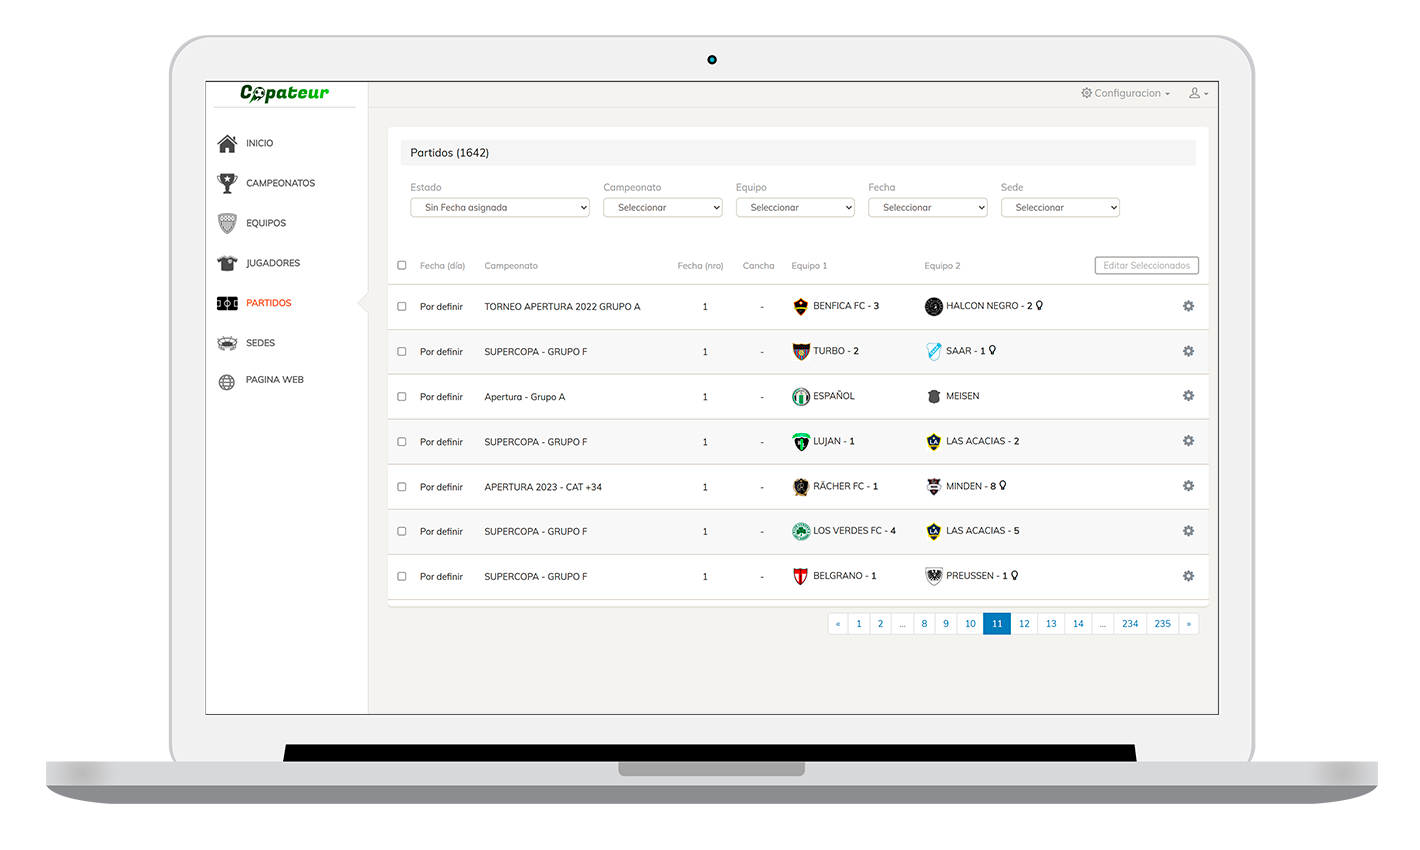
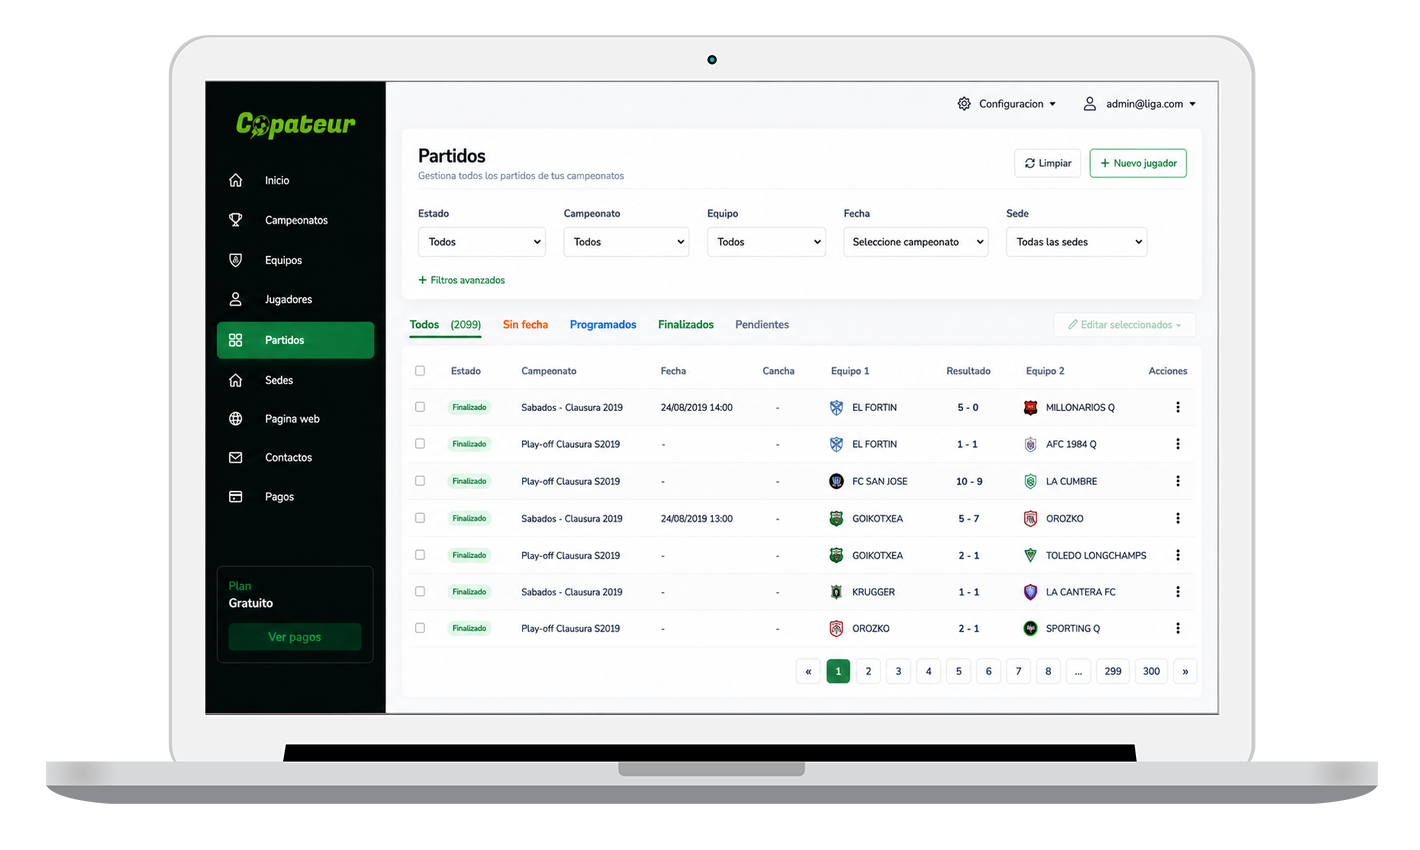
Actualizo tabla de precios e imagenes

diff --git a/index.html b/index.html
@@ -23,6 +23,23 @@
         <link href="assets/libs/@iconscout/unicons/css/line.css" type="text/css" rel="stylesheet">
         <!-- Style Css-->
         <link href="assets/css/style-dark-green.min.css" id="color-opt" class="theme-opt" rel="stylesheet" type="text/css">
+        <style>
+            .mobile-preview-section {
+                position: relative;
+                z-index: 2;
+                overflow: visible;
+            }
+
+            .mobile-preview-image {
+                position: relative;
+                z-index: 3;
+            }
+
+            .section-divider {
+                position: relative;
+                z-index: 1;
+            }
+        </style>
     </head>
 
     <body>
@@ -86,7 +103,7 @@
                         </div>
 
                         <div class="home-dashboard onepage-hero" style="overflow: unset;">
-                            <img src="assets/images/mockup-1.png" alt="" class="img-fluid rounded">
+                            <img src="assets/images/mockup-2.png" alt="" class="img-fluid rounded">
                         </div>
                     </div><!--end col-->
                 </div><!--end row-->
@@ -95,7 +112,7 @@
         <!-- Hero End -->
 
         <!-- Features Start -->
-        <section class="section pb-0" id="service">
+        <section class="section pb-0 mobile-preview-section" id="service">
             <div class="container">
                 <div class="row justify-content-center">
                     <div class="col-12 text-center">
@@ -190,7 +207,7 @@
             <div class="container mt-100 mt-60">
                 <div class="row align-items-center">
                     <div class="col-lg-5 col-md-6">
-                        <img src="assets/images/mockup-3.png" class="img-fluid" alt="">
+                        <img src="assets/images/mockup-3.png" class="img-fluid mobile-preview-image" alt="">
                     </div><!--end col-->
 
                     <div class="col-lg-7 col-md-6 mt-4 mt-sm-0 pt-2 pt-sm-0">
@@ -199,8 +216,8 @@
                             <p class="text-muted">Somos la mejor plataforma para organizadores y jugadores</p>
                             <ul class="list-unstyled mb-0 text-muted">
                                 <li class="mb-1"><span class="text-primary h5 me-2"><i class="uil uil-check-circle align-middle"></i></span>Fácil de usar, segura y flexible</li>
-                                <li class="mb-1"><span class="text-primary h5 me-2"><i class="uil uil-check-circle align-middle"></i></span>Compatible con todos los navegadores, sin descargar apps</li>
                                 <li class="mb-1"><span class="text-primary h5 me-2"><i class="uil uil-check-circle align-middle"></i></span>Optimizada para carga rápida de planillas de partidos</li>
+                                <li class="mb-1"><span class="text-primary h5 me-2"><i class="uil uil-check-circle align-middle"></i></span>App móvil personalizada para tu liga</li>
                             </ul>
                         </div>
                     </div><!--end col-->
@@ -267,17 +284,8 @@
             </div>
             <!-- Modal Content End -->
 
-            <div class="container mt-100 mt-60">
-                <div class="row">
-                    <div class="col-12">
-                        <div class="position-relative" style="z-index: 1;">
-                            <img src="assets/images/mockup-2.png" class="rounded img-fluid mx-auto d-block" alt="">
-                        </div>
-                    </div>
-                </div><!--end row-->
-            </div><!--end container-->
         </section><!--end section-->
-        <div class="position-relative">
+        <div class="section-divider">
             <div class="shape overflow-hidden text-light">
                 <svg viewBox="0 0 2880 250" fill="none" xmlns="http://www.w3.org/2000/svg">
                     <path d="M720 125L2160 0H2880V250H0V125H720Z" fill="currentColor"></path>
@@ -298,65 +306,81 @@
                     </div><!--end col-->
                 </div><!--end row-->
 
-                <div class="row">                    
-                    <div class="col-lg-4 col-md-6 col-12 mt-4 pt-2">
-                        <div class="card pricing pricing-primary business-rate shadow bg-light border-0 rounded">
-                            <div class="card-body">
-                                <h6 class="title name fw-bold text-uppercase mb-4">Gratis</h6>
-                                <div class="d-flex mb-4">
-                                    <span class="h4 mb-0 mt-2">U$S</span>
-                                    <span class="price h1 mb-0">0</span>
-                                    <span class="h4 align-self-end mb-1">/mes</span>
+                <div class="row justify-content-center">
+                    <div class="col-lg-9 col-12 mt-4 pt-2">
+                        <div class="card shadow border-0 rounded">
+                            <div class="card-body p-0">
+                                <div class="table-responsive">
+                                    <table class="table table-center mb-0 align-middle">
+                                        <thead>
+                                            <tr>
+                                                <th scope="col" class="border-bottom py-3 ps-4">Formato</th>
+                                                <th scope="col" class="border-bottom py-3 text-center">Partidos/mes</th>
+                                                <th scope="col" class="border-bottom py-3 pe-4 text-end">Precio</th>
+                                            </tr>
+                                        </thead>
+                                        <tbody>
+                                            <tr>
+                                                <td class="py-3 ps-4 text-muted">14 equipos</td>
+                                                <td class="py-3 text-center text-muted">28</td>
+                                                <td class="py-3 pe-4 text-end fw-bold text-primary">Gratis</td>
+                                            </tr>
+                                            <tr>
+                                                <td class="py-3 ps-4 text-muted">20 equipos</td>
+                                                <td class="py-3 text-center text-muted">40</td>
+                                                <td class="py-3 pe-4 text-end fw-bold">USD 15</td>
+                                            </tr>
+                                            <tr>
+                                                <td class="py-3 ps-4 text-muted">24 equipos</td>
+                                                <td class="py-3 text-center text-muted">48</td>
+                                                <td class="py-3 pe-4 text-end fw-bold">USD 15</td>
+                                            </tr>
+                                            <tr>
+                                                <td class="py-3 ps-4 text-muted">30 equipos</td>
+                                                <td class="py-3 text-center text-muted">60</td>
+                                                <td class="py-3 pe-4 text-end fw-bold">USD 15</td>
+                                            </tr>
+                                            <tr>
+                                                <td class="py-3 ps-4 text-muted">40 equipos</td>
+                                                <td class="py-3 text-center text-muted">80</td>
+                                                <td class="py-3 pe-4 text-end fw-bold">USD 30</td>
+                                            </tr>
+                                            <tr>
+                                                <td class="py-3 ps-4 text-muted">50 equipos</td>
+                                                <td class="py-3 text-center text-muted">100</td>
+                                                <td class="py-3 pe-4 text-end fw-bold">USD 30</td>
+                                            </tr>
+                                            <tr>
+                                                <td class="py-3 ps-4 text-muted">60 equipos</td>
+                                                <td class="py-3 text-center text-muted">120</td>
+                                                <td class="py-3 pe-4 text-end fw-bold">USD 50</td>
+                                            </tr>
+                                            <tr>
+                                                <td class="py-3 ps-4 text-muted">70 equipos</td>
+                                                <td class="py-3 text-center text-muted">140</td>
+                                                <td class="py-3 pe-4 text-end fw-bold">USD 50</td>
+                                            </tr>
+                                            <tr>
+                                                <td class="py-3 ps-4 text-muted">80 equipos</td>
+                                                <td class="py-3 text-center text-muted">160</td>
+                                                <td class="py-3 pe-4 text-end fw-bold">USD 80</td>
+                                            </tr>
+                                            <tr>
+                                                <td class="py-3 ps-4 text-muted">100 equipos</td>
+                                                <td class="py-3 text-center text-muted">200</td>
+                                                <td class="py-3 pe-4 text-end fw-bold">USD 80</td>
+                                            </tr>
+                                            <tr>
+                                                <td class="py-3 ps-4 text-muted">182 equipos</td>
+                                                <td class="py-3 text-center text-muted">364</td>
+                                                <td class="py-3 pe-4 text-end fw-bold">USD 80</td>
+                                            </tr>
+                                        </tbody>
+                                    </table>
                                 </div>
-                                
-                                <ul class="list-unstyled mb-0 ps-0">
-                                    <li class="h6 text-muted mb-0"><span class="icon h5 me-2"><i class="uil uil-check-circle align-middle"></i></span>Todas las funcionalidades</li>
-                                    <li class="h6 text-muted mb-0"><span class="icon h5 me-2"><i class="uil uil-check-circle align-middle"></i></span>Hasta 30 partidos por mes</li>
-                                </ul>
-                                <a href="#contact" class="btn btn-primary mt-4">Comenzar</a>
                             </div>
                         </div>
                     </div><!--end col-->
-                    
-                    <div class="col-lg-4 col-md-6 col-12 mt-4 pt-2">
-                        <div class="card pricing pricing-primary business-rate shadow border-0 rounded">
-                            <div class="ribbon ribbon-right ribbon-warning overflow-hidden"><span class="text-center d-block shadow small h6">Popular</span></div>
-                            <div class="card-body">
-                                <h6 class="title name fw-bold text-uppercase mb-4">Estándar</h6>
-                                <div class="d-flex mb-4">
-                                    <span class="h4 mb-0 mt-2">U$S</span>
-                                    <span class="price h1 mb-0">25</span>
-                                    <span class="h4 align-self-end mb-1">/mes</span>
-                                </div>
-
-                                <ul class="list-unstyled mb-0 ps-0">
-                                    <li class="h6 text-muted mb-0"><span class="icon h5 me-2"><i class="uil uil-check-circle align-middle"></i></span>Todas las funcionalidades</li>
-                                    <li class="h6 text-muted mb-0"><span class="icon h5 me-2"><i class="uil uil-check-circle align-middle"></i></span>Hasta 100 partidos por mes</li>
-                                </ul>
-                                <a href="#contact" class="btn btn-primary mt-4">Comenzar</a>
-                            </div>
-                        </div>
-                    </div><!--end col-->
-                    
-                    <div class="col-lg-4 col-md-6 col-12 mt-4 pt-2">
-                        <div class="card pricing pricing-primary business-rate shadow bg-light border-0 rounded">
-                            <div class="card-body">
-                                <h6 class="title name fw-bold text-uppercase mb-4">Ilimitado</h6>
-                                <div class="d-flex mb-4">
-                                    <span class="h4 mb-0 mt-2">U$S</span>
-                                    <span class="price h1 mb-0">35</span>
-                                    <span class="h4 align-self-end mb-1">/mes</span>
-                                </div>
-                                
-                                <ul class="list-unstyled mb-0 ps-0">
-                                    <li class="h6 text-muted mb-0"><span class="icon h5 me-2"><i class="uil uil-check-circle align-middle"></i></span>Todas las funcionalidades</li>
-                                    <li class="h6 text-muted mb-0"><span class="icon h5 me-2"><i class="uil uil-check-circle align-middle"></i></span>Sin límite de partidos por mes</li>
-                                </ul>
-                                <a href="#contact" class="btn btn-primary mt-4">Comenzar</a>
-                            </div>
-                        </div>
-                    </div><!--end col-->
-                    
                 </div><!--end row-->
             </div><!--end container-->
         </section><!--end section-->